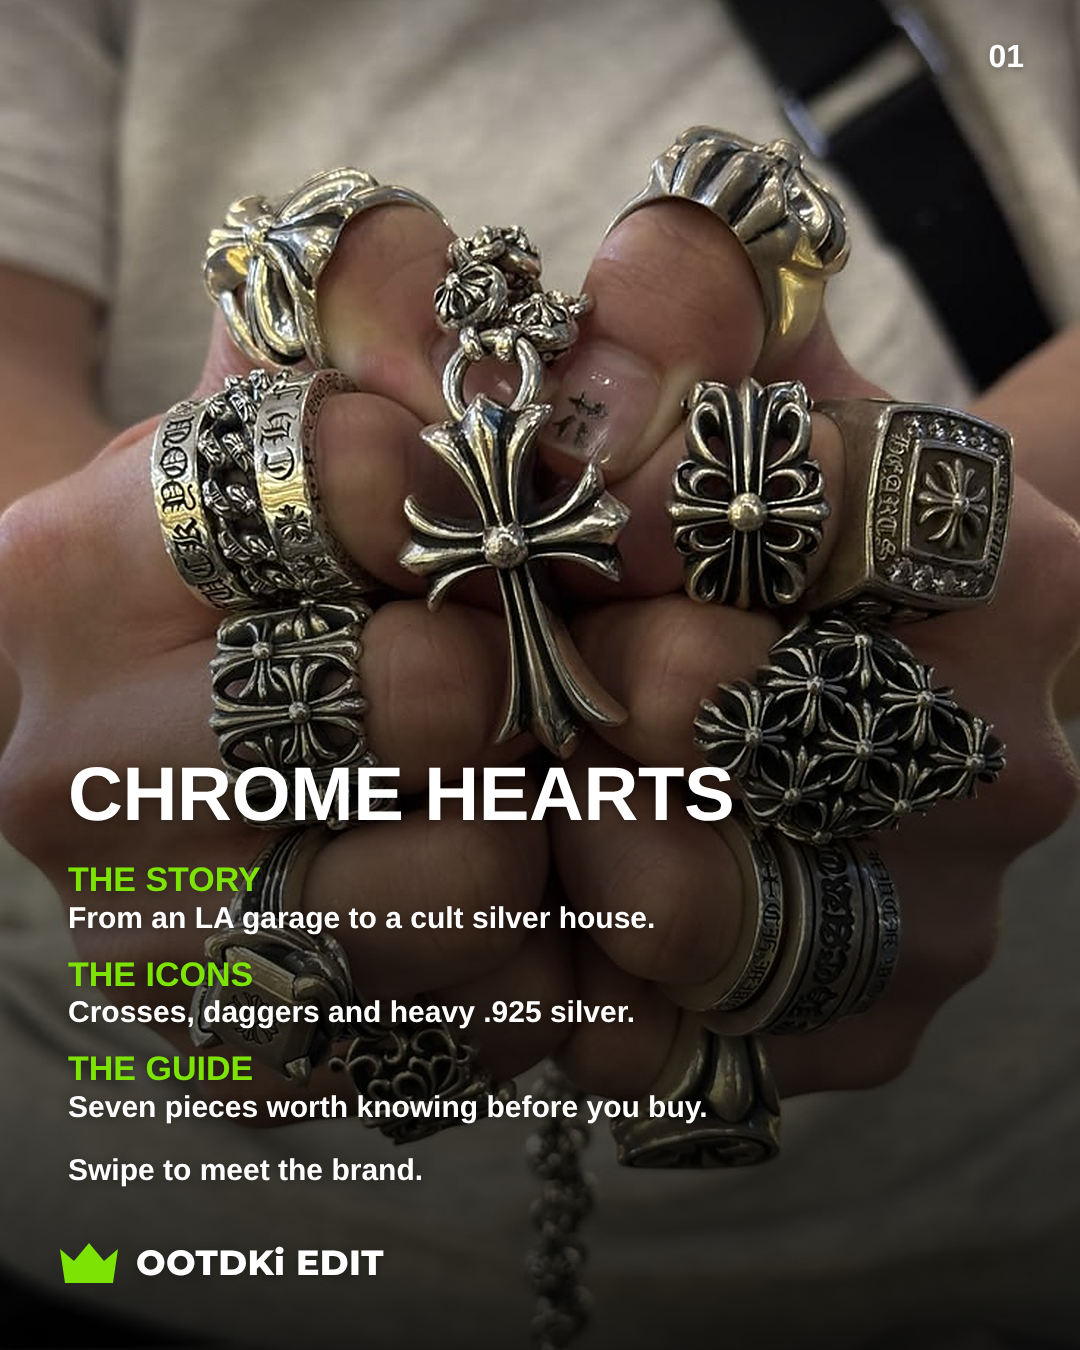
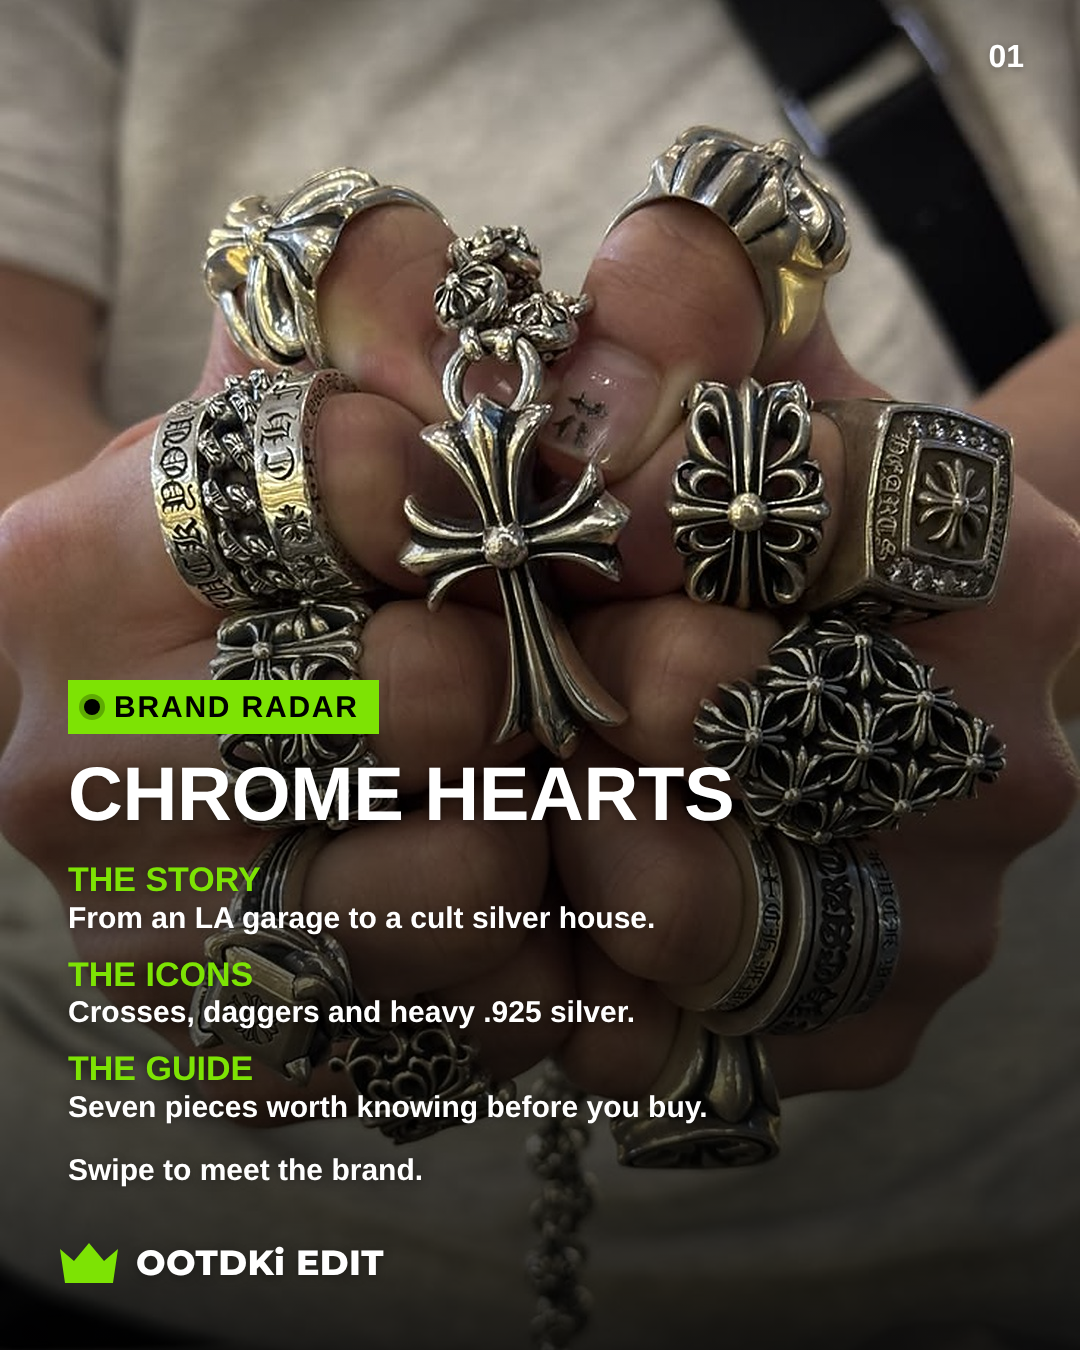
Add BRAND RADAR tag to carousel cover
Claude-Session: https://claude.ai/code/session_01GpgvC6zjETKGc5rJUK1wU2

Changed region(s): [[0.0611, 0.4978, 0.3667, 0.56]]

diff --git a/chrome_hearts_carousel_en/template.html b/chrome_hearts_carousel_en/template.html
@@ -10,6 +10,8 @@ body{background:#111}
 .shade{position:absolute;inset:0;background:linear-gradient(180deg,rgba(0,0,0,.28) 0%,rgba(0,0,0,0) 12%,rgba(0,0,0,0) 38%,rgba(0,0,0,.45) 58%,rgba(0,0,0,.82) 100%)}
 .n{position:absolute;top:38px;right:56px;font-size:32px;text-shadow:0 2px 8px rgba(0,0,0,.4)}
 .txt{position:absolute;left:68px;right:60px;bottom:163px}
+.kick{display:inline-flex;align-items:center;gap:14px;background:#7DE304;color:#000;font-size:30px;letter-spacing:.06em;padding:10px 20px 10px 16px;margin-bottom:22px;text-shadow:none}
+.kick span{width:16px;height:16px;border-radius:50%;background:#000;box-shadow:0 0 0 5px rgba(0,0,0,.25)}
 h1{font-size:76px;line-height:1;margin-bottom:30px;letter-spacing:-.005em}
 .l{color:#7DE304;font-size:34px;line-height:1.05;margin-top:21px}
 .b{font-size:30px;line-height:1.2;margin-top:2px}
@@ -24,7 +26,7 @@ document.getElementById('root').innerHTML=D.map((d,i)=>`
  ${HAVE[i]?`<img src="photos/${d.photo}">`:`<div class="ph"><div>PHOTO ${String(i+1).padStart(2,'0')}<br>${d.shot}<br><small>→ photos/${d.photo}</small></div></div>`}
  <div class="shade"></div>
  <div class="n">${String(i+1).padStart(2,'0')}</div>
- <div class="txt"><h1>${d.title}</h1>
+ <div class="txt">${d.kicker?`<div class="kick"><span></span>${d.kicker}</div>`:""}<h1>${d.title}</h1>
   ${d.rows.map(r=>`<div class="l">${r[0]}</div><div class="b">${r[1]}</div>`).join('')}
   <div class="end">${d.end}</div></div>
  <div class="logo"><svg width="58" height="40" viewBox="0 0 58 40"><path fill="#7DE304" d="M0 6l14 12L29 0l15 18L58 6l-5 34H5z"/></svg>OOTDKi EDIT</div>
